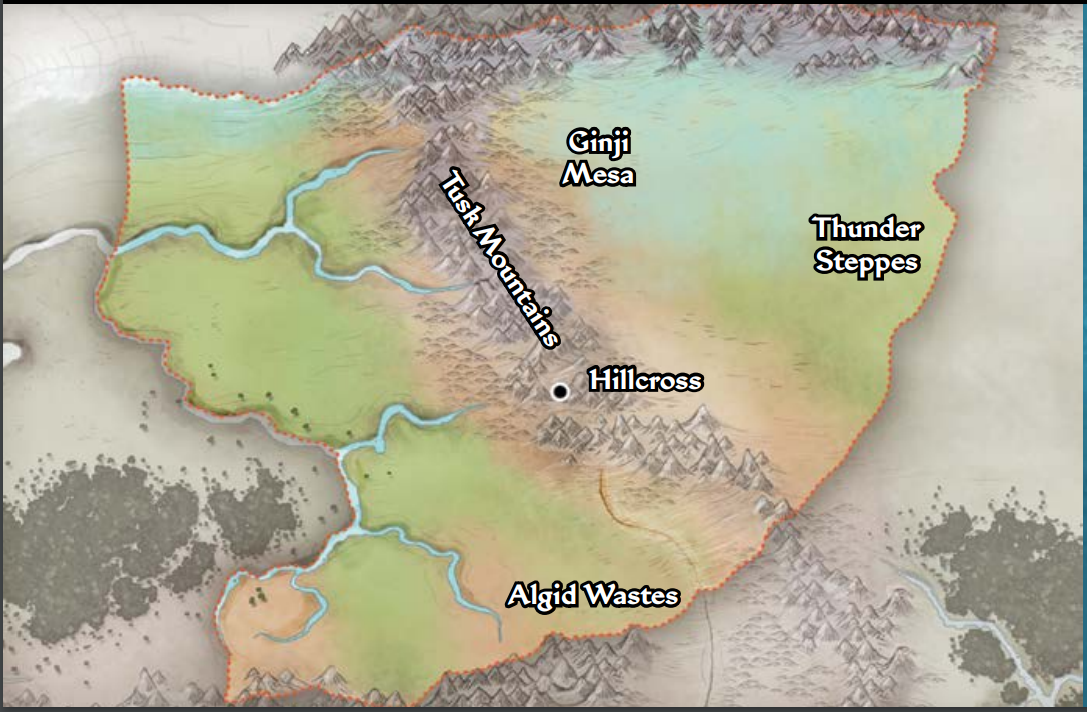
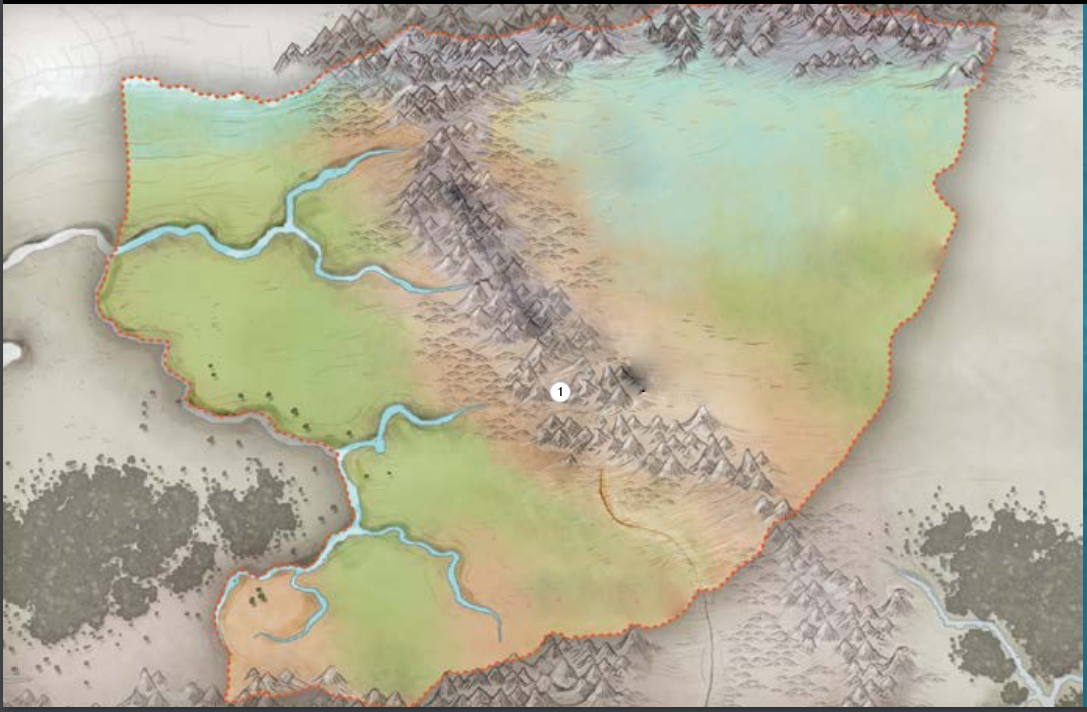
added map

diff --git a/docs/Session_Summary/Map-Route.md b/docs/Session_Summary/Map-Route.md
@@ -1,4 +1,7 @@
 ![[map.PNG]]
-### 1 : 29 Abadius 4072
-We prepared for the [[Green-Moon-Festival]] somewhere to the west of the [[Tusk-Mountains]]. Our exact location is hard to pinpoint.
+## Ledger: 
+1: [[Hillcross]]
+For detailed geographical map, see [[Realm-of-the-Mammoth-Lords]]
 
+### 1 : [[Session-1#29 Abadius 4072]]-[[Session-1#30 Abadius 4072]]
+We stopped nearby the [[Rock-loom]] to prepare for the [[Green-Moon-Festival]] somewhere to the west of the [[Tusk-Mountains]]. Our exact location is hard to pinpoint.
